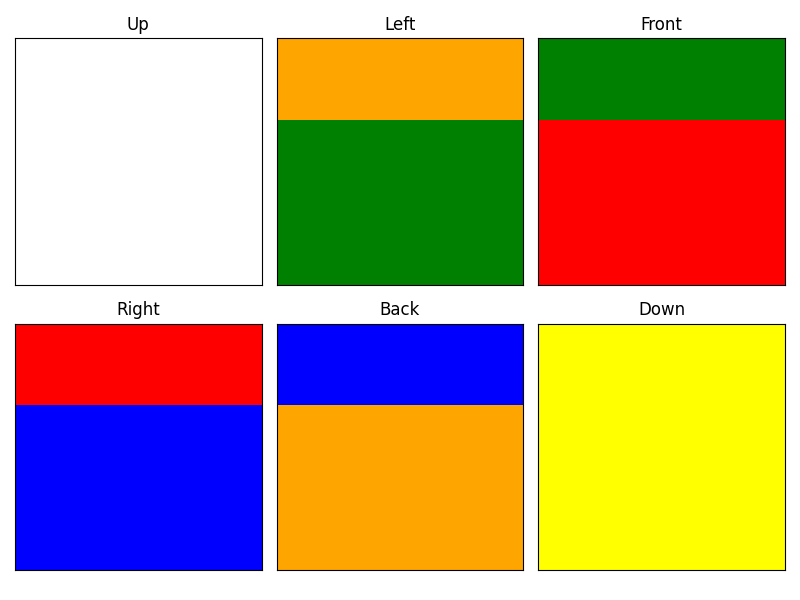
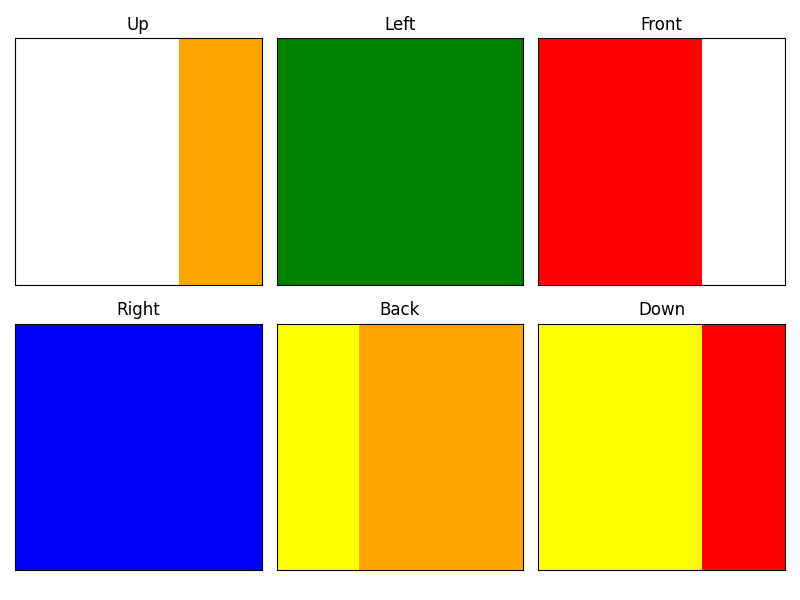
Checkpoint before assistant change: Fix incorrect rotation algorithm in Rubik's Cube solver
Replit-Commit-Author: Assistant

diff --git a/main.py b/main.py
@@ -146,7 +146,7 @@ def main():
     # 创建魔方实例（初始为已解决状态）
     cube = SimpleRubiksCube()
     # 定义打乱公式，例如 "R U R' U'"
-    algorithm = "U'"
+    algorithm = "R"
     print("应用公式:", algorithm)
     cube.apply_algorithm(algorithm)
 
